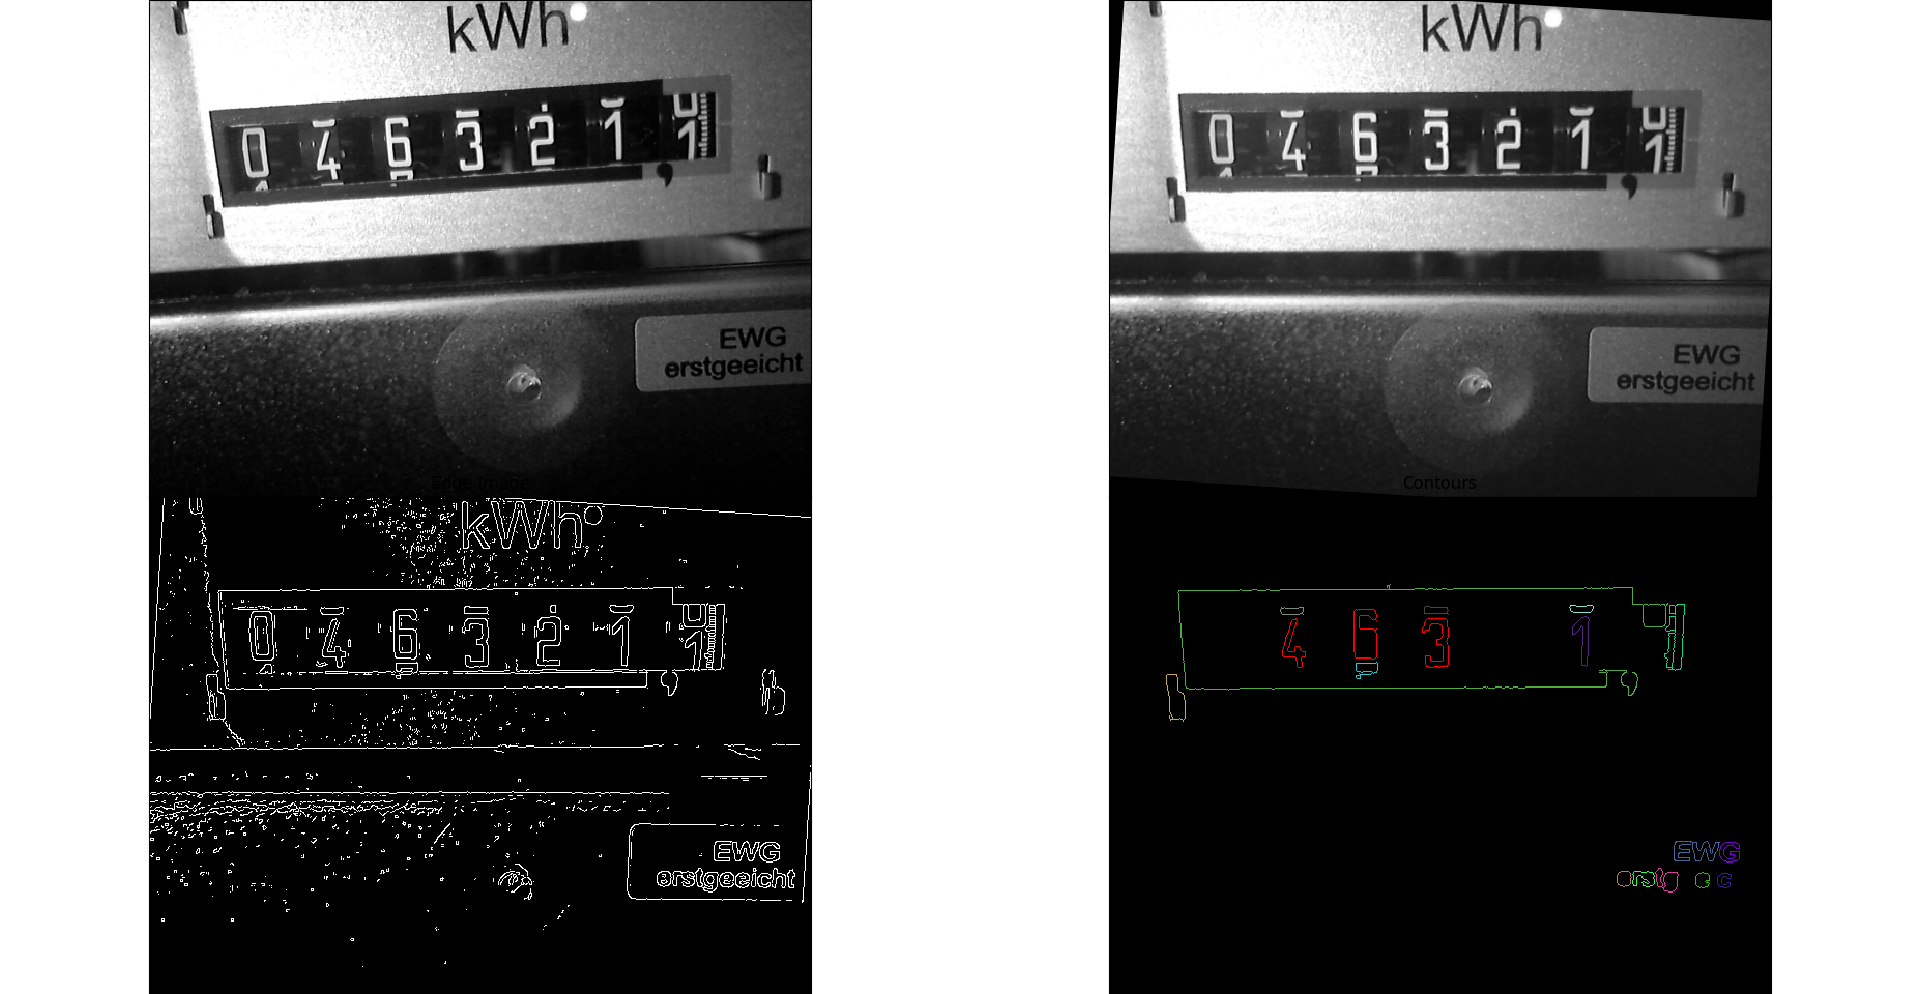
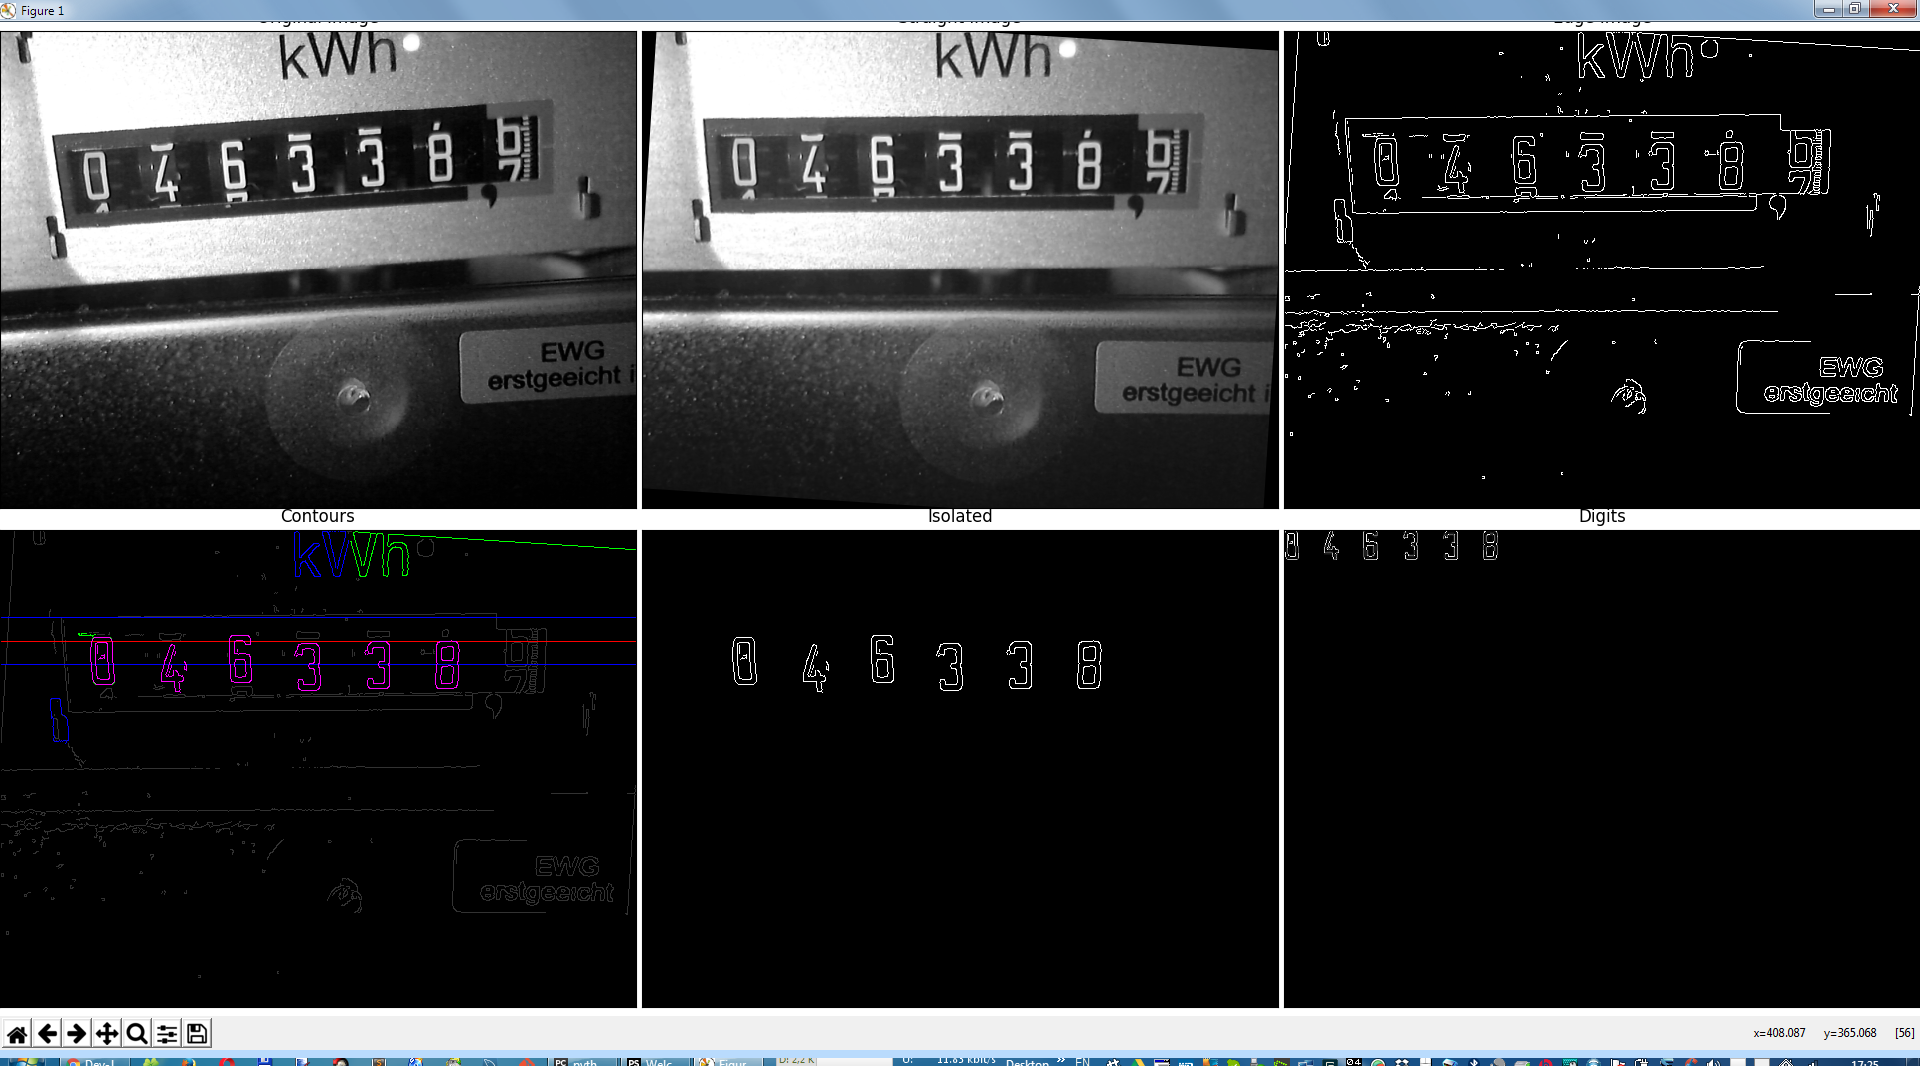
- ADD Pipeline and OCR - TODO: find way to load KNN or switch to SVM

diff --git a/python/Canny.py b/python/Canny.py
@@ -3,6 +3,7 @@ from os import listdir
 import cv2
 from matplotlib import pyplot as plt
 from Image.IsolateDigits import IsolateDigits
+from Image.Pipeline import Pipeline
 from Image.Straighten import *
 from Image.Cannify import *
 # from matplotlib.widgets import Button
@@ -10,16 +11,16 @@ import multiprocessing
 
 
 class Canny:
-
     def __init__(self):
         print('Reading files...')
         self.mypath = '../cache/'
         self.onlyfiles = [f for f in listdir(self.mypath)
-                     if path.isfile(path.join(self.mypath, f))]
+                          if path.isfile(path.join(self.mypath, f))]
         self.file = None
         self.img = None
         self.width = None
         self.height = None
+        """ :var Canny """
         self.cannify = None
 
     def next_image(self):
@@ -32,26 +33,8 @@ class Canny:
         self.render()
 
     def render(self):
-        straighten = Straighten(self.img)
-        straight = straighten.process()
-
-        edges = cv2.Canny(straight, 100, 200)
-
-        self.cannify = Cannify(edges)
-        contimage = self.cannify.process()
-        contours = self.cannify.getDigits()
-
-        isolated = np.zeros((self.height, self.width, 3), np.uint8)
-        cv2.drawContours(isolated, contours, contourIdx=-1, color=(255, 255, 255))
-                         # thickness=cv2.FILLED)
-
-        # alternatively fill the contours
-        # todo: this does not let openings
-        # for c in contours:
-        #     cv2.fillPoly(isolated, pts=[c], color=(255, 255, 255))
-
-        isolator = IsolateDigits(isolated)
-        digits = isolator.isolate(contours)
+        p = Pipeline(self.file)
+        straight, edges, contimage, isolated, digits = p.process()
 
         digimage = np.zeros((self.height, self.width, 3), np.uint8)
         # normalized_contours = self.normalize_contours(contours)
@@ -60,12 +43,15 @@ class Canny:
             d25 = cv2.resize(d, (15, 30), interpolation=cv2.INTER_LANCZOS4)
             self.OverlayImage(digimage, d25, i * 40, 0, (0, 0, 0, 0), (1, 1, 1, 1))
 
-        # self.plot(straight, edges, contimage, isolated, digimage)
-        # job_for_another_core = multiprocessing.Process(target=self.plot,
-        #                                                args=(straight, edges, contimage, isolated, digimage))
-
-        job_for_another_core = multiprocessing.Process(target=self.plot_result,
-                                                       args=[digimage])
+        show_progress = False
+        if show_progress:
+            # self.plot(straight, edges, contimage, isolated, digimage)
+            job_for_another_core = multiprocessing.Process(
+                target=self.plot,
+                args=(straight, edges, contimage, isolated, digimage))
+        else:
+            job_for_another_core = multiprocessing.Process(target=self.plot_result,
+                                                           args=[digimage])
         job_for_another_core.start()
 
         numbers = ''
@@ -117,7 +103,7 @@ class Canny:
         figure = plt.gcf()
         dpi = figure.get_dpi()
         # print('dpi', dpi)
-        figure.set_size_inches((640*3/dpi, 480*2/dpi), forward=True)
+        figure.set_size_inches((640 * 3 / dpi, 480 * 2 / dpi), forward=True)
         # plt.rcParams["figure.figsize"] = (50, 30)
         plt.show()
 
@@ -134,7 +120,7 @@ class Canny:
 
     def onclick(self, event):
         print('button=%d, x=%d, y=%d, xdata=%f, ydata=%f' %
-                  (event.button, event.x, event.y, event.xdata, event.ydata))
+              (event.button, event.x, event.y, event.xdata, event.ydata))
         self.cannify.click()
         contimage = self.cannify.process()
         plt.subplot(224), plt.imshow(contimage)
@@ -182,19 +168,19 @@ class Canny:
         o_height, o_width, _ = overlay.shape
         s_height, s_width, _ = src.shape
         for x in range(o_width):
-            if x+posx < s_width:
+            if x + posx < s_width:
                 for y in range(o_height):
-                    if y+posy < s_width:
+                    if y + posy < s_width:
 
-                        source = src[y+posy, x+posx]
+                        source = src[y + posy, x + posx]
                         over = overlay[y, x]
                         merger = [0, 0, 0, 0]
 
                         for i in range(1):
-                            merger[i] = (S[i]*source[i]+D[i]*over[i])
+                            merger[i] = (S[i] * source[i] + D[i] * over[i])
 
                         # merged = tuple(merger)
-                        src[y+posy, x+posx] = merger[0]
+                        src[y + posy, x + posx] = merger[0]
 
     def saveDigits(self, digits, numbers):
         filename = path.basename(self.file)
@@ -212,4 +198,3 @@ class Canny:
         with open(path.join("training/", filename), "a") as myfile:
             myfile.write("numbers: [" + ', '.join(numbers) + "]\n")
         print('done')
-

diff --git a/python/Image/Pipeline.py b/python/Image/Pipeline.py
@@ -1,0 +1,42 @@
+import cv2
+from os import path
+
+import numpy as np
+
+from Image.Cannify import Cannify
+from Image.IsolateDigits import IsolateDigits
+from Image.Straighten import Straighten
+
+
+class Pipeline:
+
+    def __init__(self, filename):
+        self.file = filename
+        self.img = cv2.imread(self.file, 0)
+        self.height, self.width = self.img.shape
+        """ :var Canny """
+        self.cannify = None
+
+    def process(self):
+        straighten = Straighten(self.img)
+        straight = straighten.process()
+
+        edges = cv2.Canny(straight, 100, 200)
+
+        self.cannify = Cannify(edges)
+        contimage = self.cannify.process()
+        contours = self.cannify.getDigits()
+
+        isolated = np.zeros((self.height, self.width, 3), np.uint8)
+        cv2.drawContours(isolated, contours, contourIdx=-1, color=(255, 255, 255))
+                         # thickness=cv2.FILLED)
+
+        # alternatively fill the contours
+        # todo: this does not let openings
+        # for c in contours:
+        #     cv2.fillPoly(isolated, pts=[c], color=(255, 255, 255))
+
+        isolator = IsolateDigits(isolated)
+        digits = isolator.isolate(contours)
+
+        return straight, edges, contimage, isolated, digits

diff --git a/python/train.py b/python/train.py
@@ -1,11 +1,11 @@
-import random
-from ppretty import ppretty
+# import random
+# from ppretty import ppretty
 import numpy as np
-import matplotlib.pyplot as plt
+# import matplotlib.pyplot as plt
 import cv2
 from os import path, listdir
-from beeprint import pp
-import yaml
+# from beeprint import pp
+# import yaml
 from sklearn.model_selection import train_test_split
 from sklearn.metrics import accuracy_score
 
@@ -49,6 +49,8 @@ class Train:
         accuracy = accuracy_score(y_tst, results)
         print('accuracy', '{:.2f}'.format(accuracy * 100.0), '%')
 
+        knn.save('ocr.knn')
+
     def check_all_digits(self, knn):
         ret, results, neighbours, dist = knn.findNearest(self.all_digits, 5)
         results = np.reshape(results, (len(results)))
@@ -66,6 +68,7 @@ class Train:
         # pp([ret, results, neighbours, dist])
         print('check', check.shape, results[0])
         # [0, 4, 6, 3, 0, 8]
+        print(results[0], self.all_numbers[0])
         assert(results[0] == self.all_numbers[0])
 
     def read_files(self):

diff --git a/python/ocr.py b/python/ocr.py
@@ -1,0 +1,37 @@
+from pprint import pprint
+
+import numpy as np
+import cv2
+import argparse
+
+from Canny import Canny
+from Image.Pipeline import Pipeline
+
+
+class OCR:
+
+    def __init__(self):
+        parser = argparse.ArgumentParser(description='OCR numbers from <file>.')
+        parser.add_argument('filename', metavar='filename', type=str,
+                            help='image file to OCR from')
+
+        args = parser.parse_args()
+        filename = args.filename
+        # print('filename', filename)
+        if not filename:
+            parser.print_help()
+        else:
+            self.filename = filename
+
+    def render(self):
+        p = Pipeline(self.filename)
+        straight, edges, contimage, isolated, digits = p.process()
+
+        knn = cv2.ml.KNearest_create()
+        knn.load('ocr.knn')
+
+        ret, results, neighbours, dist = knn.findNearest([digits], 5)
+        pprint(ret, results, neighbours, dist)
+
+o = OCR()
+o.render()

diff --git a/src/EnergyMonitor/OpenCV/Sample.php b/src/EnergyMonitor/OpenCV/Sample.php
@@ -26,7 +26,7 @@ class Sample {
 		$this->rows = $height;
 	}
 
-	function getImagePath() {
+	function getImagePath($zoom = 2) {
 		return 'SampleShow?'.http_build_query([
 			'action' => 'img',
 			'width' => $this->cols,
@@ -35,6 +35,7 @@ class Sample {
 //				implode(',', $this->data)
 				pack("c*", ...$this->data)
 			)),
+			'zoom' => $zoom,
 		]);
 	}
 
@@ -46,12 +47,13 @@ class Sample {
 //		debug($_REQUEST['data'], strlen($data), sizeof($this->data));
 		$this->rows = $request->getInt('height');
 		$this->cols = $request->getInt('width');
+		$zoom = $request->getInt('zoom') ?: 2;
 
 		//pre_print_r($this->cols, $this->rows, strlen($data), sizeof($this->data));
 		assert(sizeof($this->data) == $this->rows*$this->cols);
 //		flush();
 		if (!headers_sent()) {
-			$this->imgAction(1);
+			$this->imgAction($zoom);
 		} else {
 			$this->spellSample();
 			exit;

diff --git a/src/EnergyMonitor/CheckTraining.php b/src/EnergyMonitor/CheckTraining.php
@@ -47,7 +47,7 @@ class CheckTraining extends AppController
 		$content = [];
 		foreach (range(0, $matrix->size()-1) as $index) {
 			$sample = $matrix->getSample($index);
-			$content[] = '<img src="' . $sample->getImagePath() . '" />' . '&nbsp;';
+			$content[] = '<img src="' . $sample->getImagePath(3) . '" />' . '&nbsp;';
 
 			$digit = $digitMat->getOne($index);
 			$content[] = '<big>' . $digit[0] . '</big>' . ' ';
